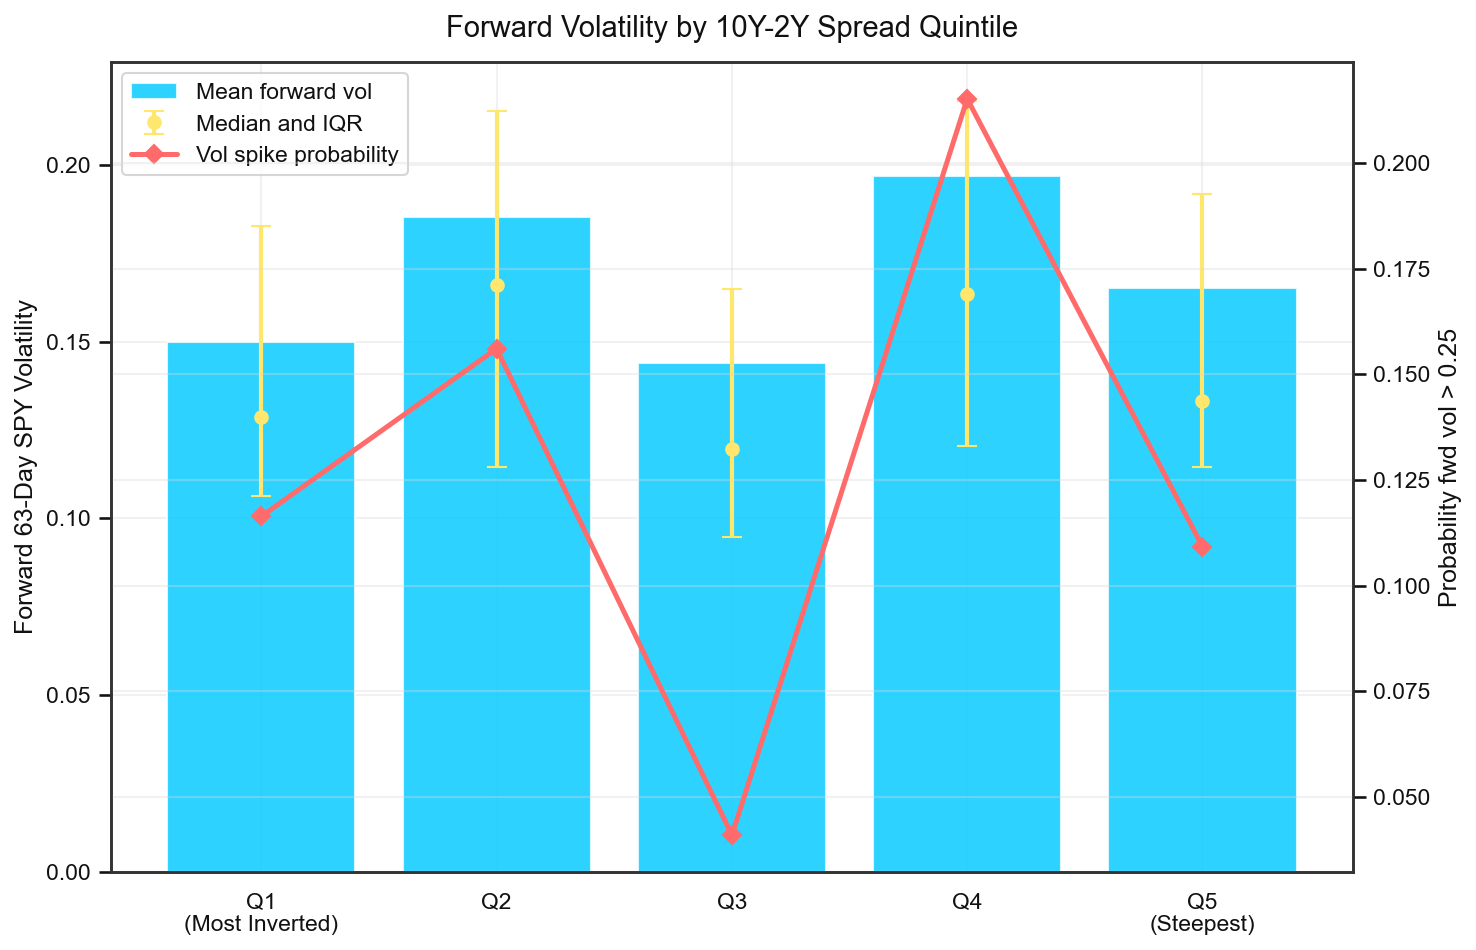
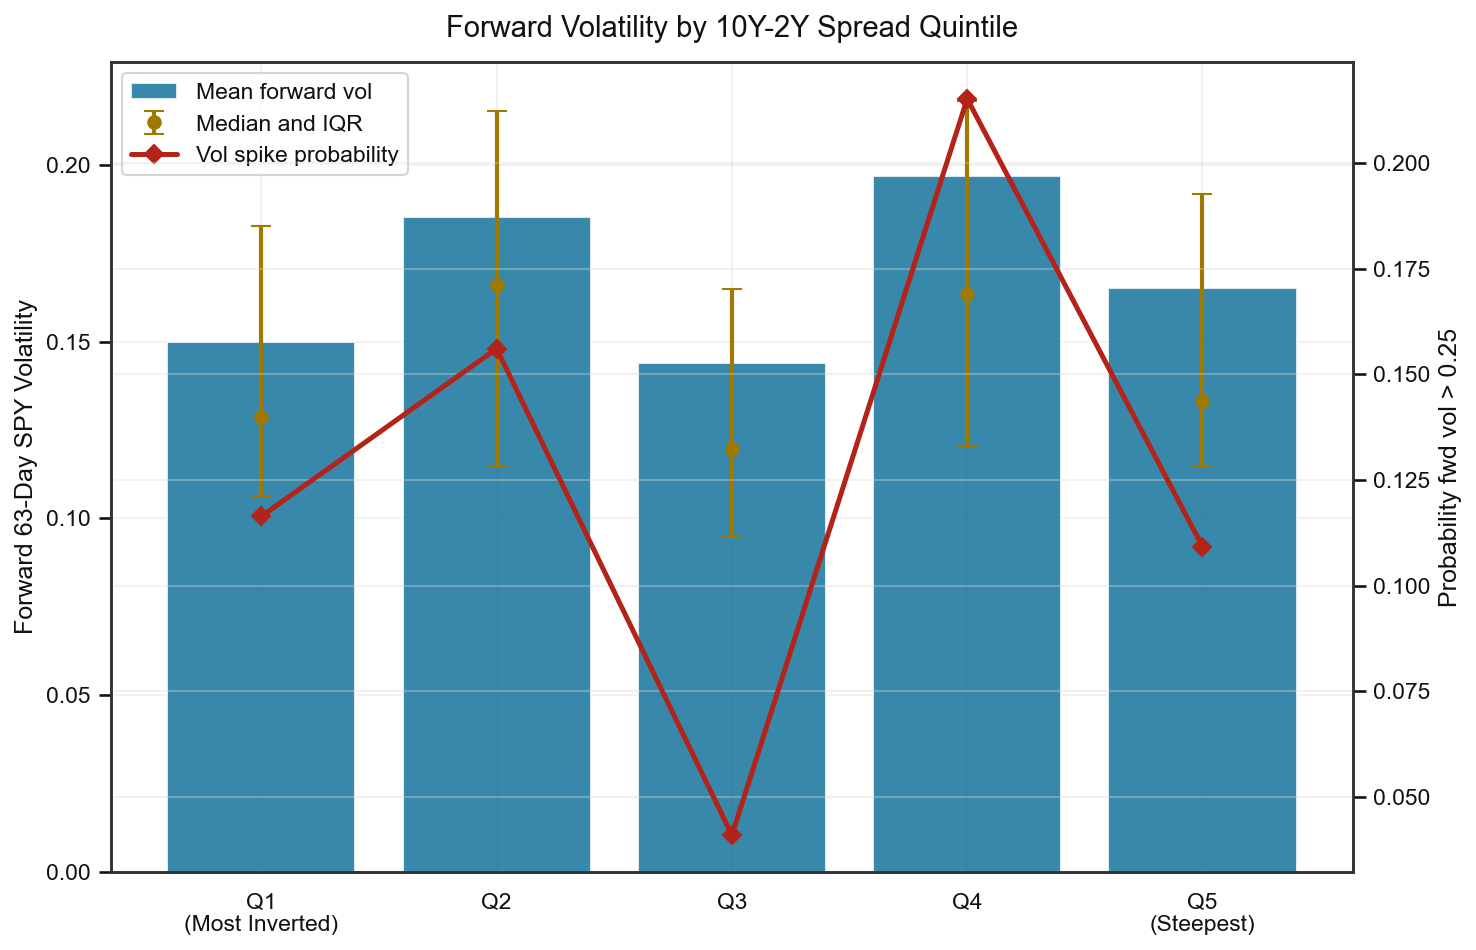
improve light-theme visual contrast

diff --git a/models.py b/models.py
@@ -11,8 +11,8 @@ from hmmlearn.hmm import GaussianHMM
 from sklearn.preprocessing import StandardScaler
 
 
-COLORS = ["#00C9FF", "#FFE66D", "#FF6B6B", "#A8E063", "#C77DFF"]
-OLS_COLORS = ["#00C9FF", "#FFE66D", "#FF6B6B"]
+COLORS = ["#0B6E99", "#A07900", "#B42318", "#2D7F5E", "#6A4C93"]
+OLS_COLORS = ["#0B6E99", "#A07900", "#B42318"]
 NBER_RECESSION_BANDS = [
     ("2001-03-01", "2001-11-30"),
     ("2007-12-01", "2009-06-30"),

diff --git a/viz.py b/viz.py
@@ -8,7 +8,7 @@ import pandas as pd
 import seaborn as sns
 
 
-COLORS = ["#00C9FF", "#FFE66D", "#FF6B6B", "#A8E063", "#C77DFF"]
+COLORS = ["#0B6E99", "#A07900", "#B42318", "#2D7F5E", "#6A4C93"]
 TENOR_ORDER = ["3m", "2y", "5y", "10y", "30y"]
 DEFAULT_RECESSION_BANDS = [
     ("2001-03-01", "2001-11-30"),
